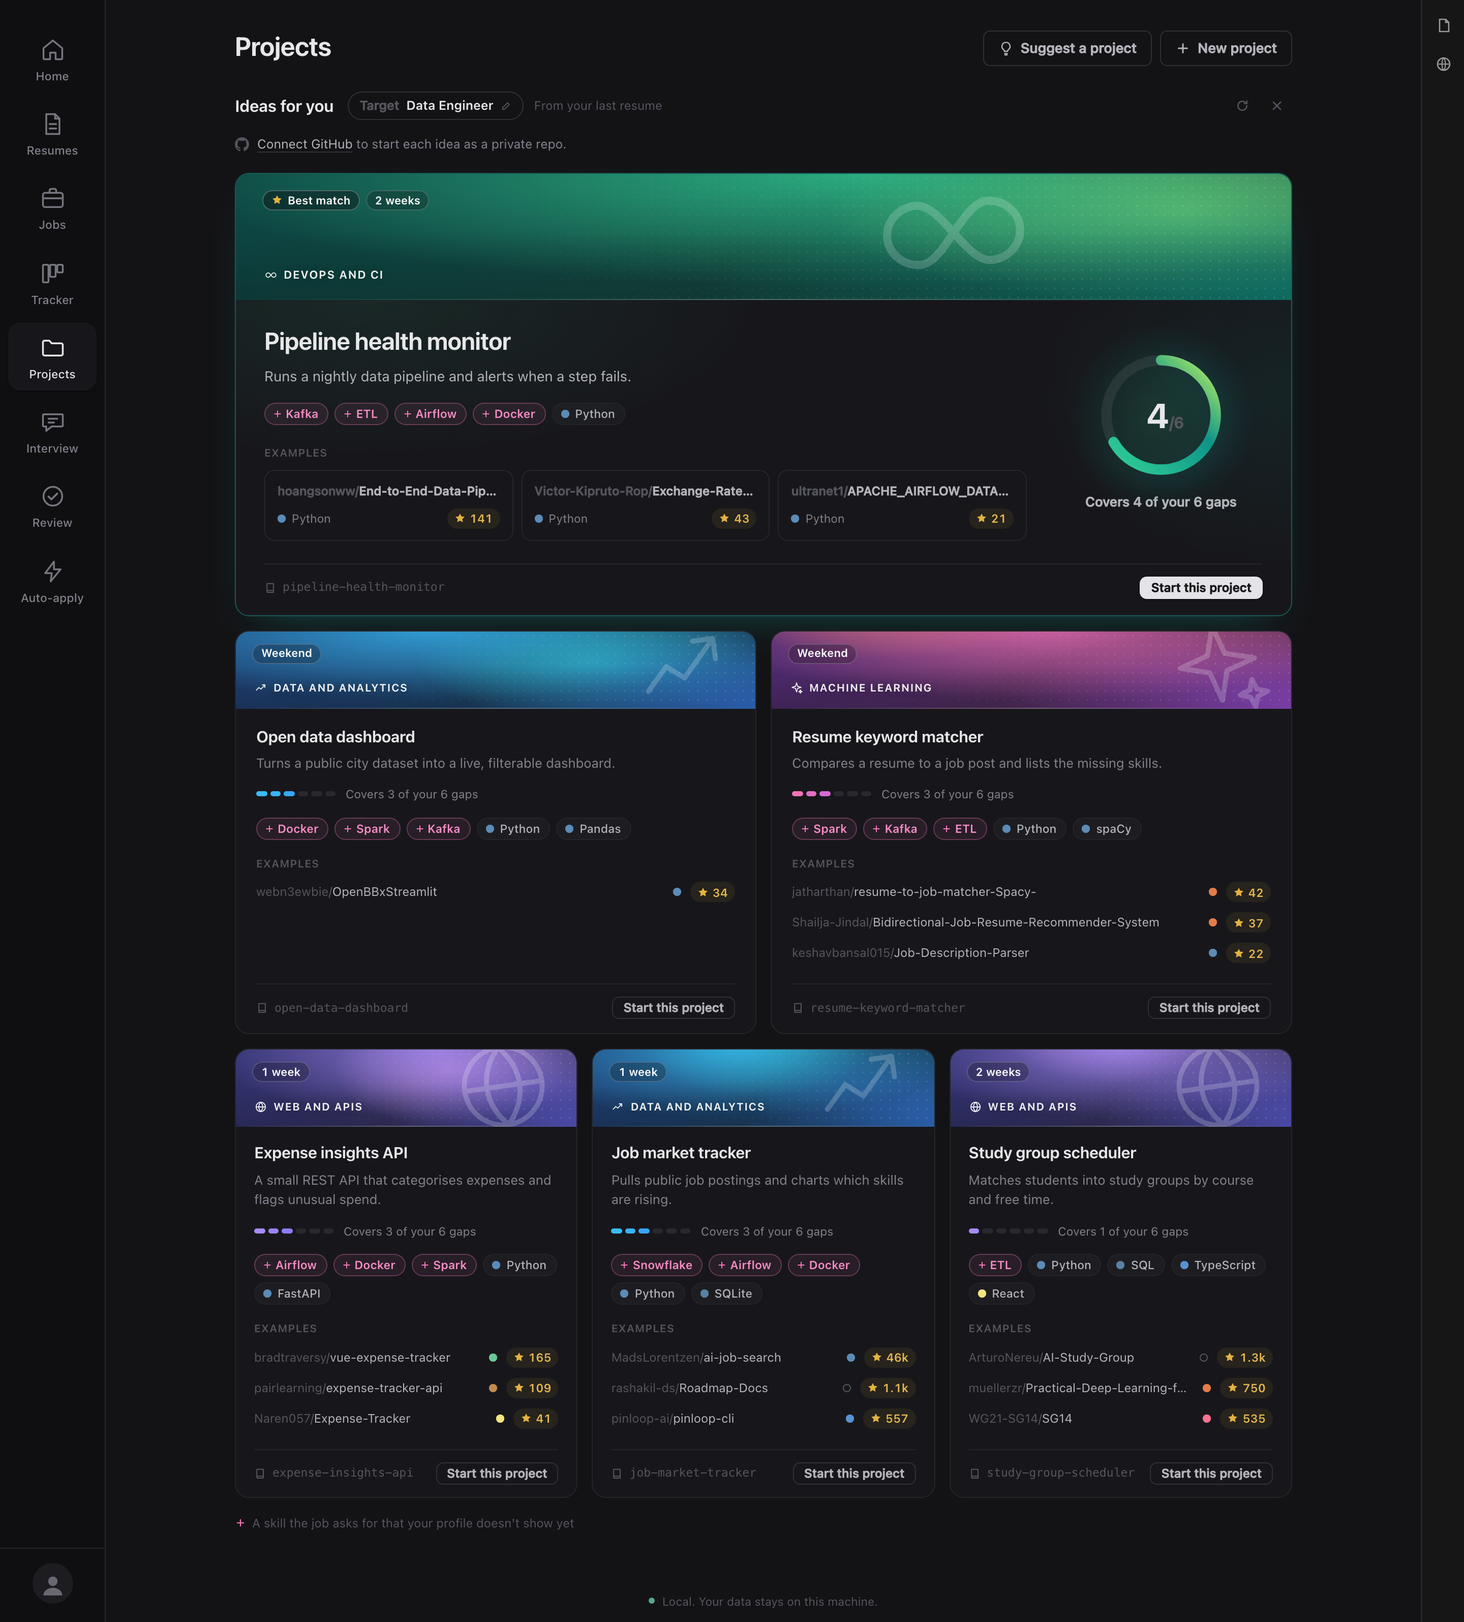
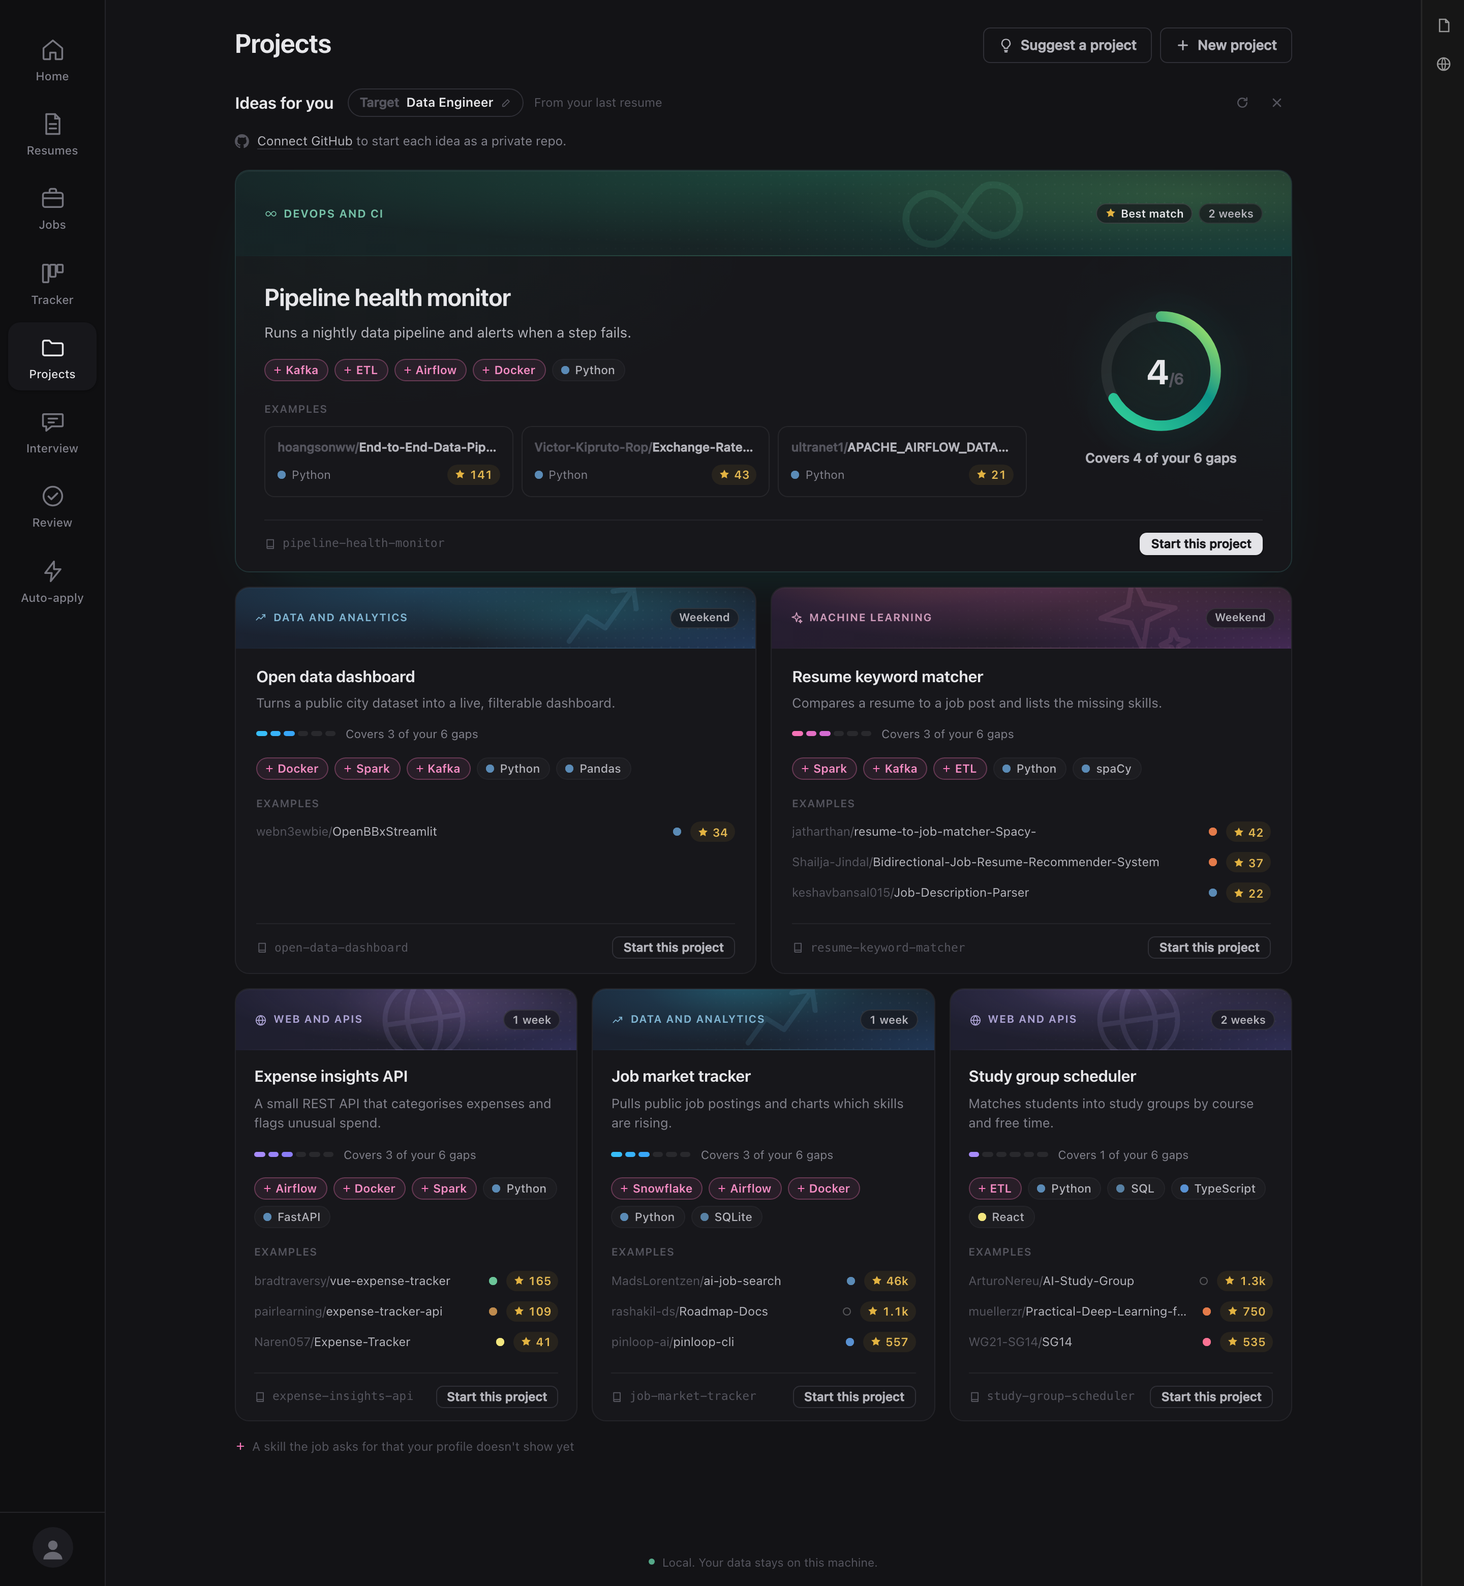
Projects ideas: tone the cover bands down to a faint tint, self-heal stale example caches
The owner found the painted category bands too saturated for the near-black app: they
drew the eye before the idea titles. The band is now a faint tint over the card surface
at about a third of the old strength (dark stops c1 72->20%, c2 78->22%, c3 58->14%,
base wash now over the surface; light c1 85->16%, c2 100->18%, c3 70->12%), with the
dot texture, glyph and hero glow reduced to match, the label in the hue and neutral
pills. Small bands 76->60px, hero 124->84px. Chips, dots, stars, meters, ring and
layout are unchanged.

Ideas cached before example repos carried a language drew hollow rings on every repo.
A cache hit with such examples now refetches them (at most 4 ideas a pass without a
token, passes a minute apart, inside GitHub's 10 searches a minute) and reuses the rest.

diff --git a/ui/static/styles.css b/ui/static/styles.css
@@ -3382,51 +3382,53 @@ body.cv-dragging * { cursor: grabbing !important; }
 .proj-idea:not(.is-skel):hover, .proj-idea:not(.is-skel):focus-within {
   border-color: color-mix(in srgb, var(--hue) 26%, var(--border));
   transform: translateY(-2px);
-  box-shadow: inset 0 1px 0 color-mix(in srgb, var(--ink) 3.5%, transparent), 0 18px 40px -26px color-mix(in srgb, var(--c2) 60%, transparent);
+  box-shadow: inset 0 1px 0 color-mix(in srgb, var(--ink) 3.5%, transparent), 0 18px 40px -26px color-mix(in srgb, var(--c2) 22%, transparent);
 }
 
-/* The cover band: three soft glows in the category's hues, a fine dot texture, one large faint
-   glyph, the category label, and the size (plus Best match on the hero) as glass pills. */
+/* The cover band (2026-10-13, toned down to about a third: the owner found the painted bands too
+   loud for the near-black app). Now a faint tint OVER the card's own surface, so the band names the
+   category at a glance but the idea title is what the eye lands on. Three soft glows in the
+   category's hues, a barely-there dot texture, one faint glyph, the category label in the hue, and
+   the size (plus Best match on the hero) as neutral pills. Stops: c1 72->20%, c2 78->22%, c3 58->14%,
+   base wash c2 42%/c1 30% of #0b0b10 -> c2 10%/c1 7% over the surface. */
 .proj-idea-cover {
-  position: relative; height: 76px; flex: none; overflow: hidden; isolation: isolate;
+  position: relative; height: 60px; flex: none; overflow: hidden; isolation: isolate;
   background:
-    linear-gradient(180deg, transparent 45%, rgba(8, 8, 12, 0.22)),
-    radial-gradient(110% 150% at var(--mx, 10%) 0%, color-mix(in srgb, var(--c1) 72%, transparent) 0%, transparent 60%),
-    radial-gradient(90% 170% at 100% 100%, color-mix(in srgb, var(--c2) 78%, transparent) 0%, transparent 62%),
-    radial-gradient(55% 120% at var(--nx, 62%) var(--my, 10%), color-mix(in srgb, var(--c3) 58%, transparent) 0%, transparent 62%),
-    linear-gradient(135deg, color-mix(in srgb, var(--c2) 42%, #0b0b10), color-mix(in srgb, var(--c1) 30%, #0b0b10));
+    radial-gradient(110% 150% at var(--mx, 10%) 0%, color-mix(in srgb, var(--c1) 20%, transparent) 0%, transparent 60%),
+    radial-gradient(90% 170% at 100% 100%, color-mix(in srgb, var(--c2) 22%, transparent) 0%, transparent 62%),
+    radial-gradient(55% 120% at var(--nx, 62%) var(--my, 10%), color-mix(in srgb, var(--c3) 14%, transparent) 0%, transparent 62%),
+    linear-gradient(135deg, color-mix(in srgb, var(--c2) 10%, transparent), color-mix(in srgb, var(--c1) 7%, transparent));
 }
 .proj-idea-cover::before {
   content: ""; position: absolute; inset: 0; z-index: -1;
   background-image: radial-gradient(rgba(255, 255, 255, 0.22) 0.7px, transparent 1.1px);
   background-size: 9px 9px;
   -webkit-mask-image: linear-gradient(100deg, transparent 15%, #000 85%); mask-image: linear-gradient(100deg, transparent 15%, #000 85%);
-  opacity: 0.55;
+  opacity: 0.18;
 }
 .proj-idea-cover::after {
   content: ""; position: absolute; left: 0; right: 0; bottom: 0; height: 1px;
-  background: linear-gradient(90deg, transparent, rgba(255, 255, 255, 0.26), transparent);
+  background: linear-gradient(90deg, transparent, color-mix(in srgb, var(--hue) 22%, transparent), transparent);
 }
 .proj-idea-glyph {
-  position: absolute; right: 18px; top: -18px; width: 108px; height: 108px; z-index: -1;
-  color: #fff; opacity: 0.2; stroke-width: 1.1; transform: rotate(-8deg);
+  position: absolute; right: 96px; top: -24px; width: 108px; height: 108px; z-index: -1;
+  color: var(--hue); opacity: 0.1; stroke-width: 1.1; transform: rotate(-8deg);
   transition: transform 420ms var(--ease), opacity 420ms var(--ease);
 }
-.proj-idea:hover .proj-idea-glyph { transform: rotate(-4deg) scale(1.04); opacity: 0.25; }
+.proj-idea:hover .proj-idea-glyph { transform: rotate(-4deg) scale(1.04); opacity: 0.14; }
 .proj-idea-cat {
-  position: absolute; left: 18px; bottom: 12px; display: inline-flex; align-items: center; gap: 6px;
+  position: absolute; left: 18px; top: 50%; transform: translateY(-50%); display: inline-flex; align-items: center; gap: 6px;
   font-size: 10.5px; font-weight: 650; letter-spacing: 0.07em; text-transform: uppercase; white-space: nowrap;
-  color: rgba(255, 255, 255, 0.92); text-shadow: 0 1px 8px rgba(0, 0, 0, 0.25);
+  color: color-mix(in srgb, var(--hue) 62%, var(--muted));
 }
 .proj-idea-cat svg { width: 13px; height: 13px; stroke-width: 1.7; }
-.proj-idea-tags { position: absolute; left: 16px; top: 12px; display: flex; gap: 6px; }
+.proj-idea-tags { position: absolute; right: 16px; top: 50%; transform: translateY(-50%); display: flex; gap: 6px; }
 .proj-idea-size, .proj-hero-tag {
   display: inline-flex; align-items: center; gap: 5px; height: 20px; padding: 0 8px;
-  font-size: 11px; font-weight: 600; color: #fff; font-variant-numeric: tabular-nums; white-space: nowrap;
-  background: rgba(10, 10, 14, 0.28); border: 1px solid rgba(255, 255, 255, 0.18); border-radius: var(--r-pill);
-  -webkit-backdrop-filter: blur(8px); backdrop-filter: blur(8px);
+  font-size: 11px; font-weight: 600; color: var(--ink-2); font-variant-numeric: tabular-nums; white-space: nowrap;
+  background: color-mix(in srgb, var(--surface) 70%, transparent); border: 1px solid color-mix(in srgb, var(--ink) 10%, transparent); border-radius: var(--r-pill);
 }
-.proj-hero-tag { background: rgba(10, 10, 14, 0.42); border-color: rgba(255, 255, 255, 0.26); }
+.proj-hero-tag { color: var(--ink); border-color: color-mix(in srgb, var(--ink) 14%, transparent); }
 .proj-hero-tag svg { color: var(--gold); }
 
 /* The body stays neutral. */
@@ -3507,19 +3509,19 @@ body.cv-dragging * { cursor: grabbing !important; }
 
 /* The hero: a taller band, the content and the fit ring side by side, a glow in the band's hue. */
 .proj-idea.is-hero {
-  border-color: color-mix(in srgb, var(--c2) 30%, var(--border));
-  box-shadow: inset 0 1px 0 color-mix(in srgb, var(--ink) 6%, transparent), 0 24px 60px -34px color-mix(in srgb, var(--c2) 70%, transparent);
+  border-color: color-mix(in srgb, var(--c2) 14%, var(--border));
+  box-shadow: inset 0 1px 0 color-mix(in srgb, var(--ink) 6%, transparent), 0 24px 60px -34px color-mix(in srgb, var(--c2) 26%, transparent);
 }
-.proj-idea.is-hero:hover, .proj-idea.is-hero:focus-within { transform: none; border-color: color-mix(in srgb, var(--c2) 48%, var(--border)); }
-.proj-idea.is-hero .proj-idea-cover { height: 124px; }
-.proj-idea.is-hero .proj-idea-glyph { width: 168px; height: 168px; right: 248px; top: -26px; opacity: 0.18; }
-.proj-idea.is-hero .proj-idea-cat { left: 28px; bottom: 16px; font-size: 11px; }
-.proj-idea.is-hero .proj-idea-tags { left: 26px; top: 16px; }
+.proj-idea.is-hero:hover, .proj-idea.is-hero:focus-within { transform: none; border-color: color-mix(in srgb, var(--c2) 24%, var(--border)); }
+.proj-idea.is-hero .proj-idea-cover { height: 84px; }
+.proj-idea.is-hero .proj-idea-glyph { width: 150px; height: 150px; right: 248px; top: -32px; opacity: 0.09; }
+.proj-idea.is-hero .proj-idea-cat { left: 28px; font-size: 11px; }
+.proj-idea.is-hero .proj-idea-tags { right: 28px; }
 .proj-idea.is-hero .proj-idea-body {
   display: grid; grid-template-columns: minmax(0, 1fr) 200px; column-gap: 32px; padding: 22px 28px 16px;
   background:
-    radial-gradient(560px 220px at 12% 0%, color-mix(in srgb, var(--c1) 9%, transparent), transparent 70%),
-    radial-gradient(360px 240px at 100% 30%, color-mix(in srgb, var(--c2) 10%, transparent), transparent 70%);
+    radial-gradient(560px 220px at 12% 0%, color-mix(in srgb, var(--c1) 3.5%, transparent), transparent 70%),
+    radial-gradient(360px 240px at 100% 30%, color-mix(in srgb, var(--c2) 4%, transparent), transparent 70%);
 }
 .proj-hero-main { min-width: 0; }
 .proj-idea.is-hero .proj-idea-t { font-size: 24px; font-weight: 650; letter-spacing: -0.02em; white-space: normal; }
@@ -3542,11 +3544,11 @@ body.cv-dragging * { cursor: grabbing !important; }
 .proj-hero-fit { position: relative; display: flex; flex-direction: column; align-items: center; justify-content: center; gap: 12px; text-align: center; }
 .proj-hero-fit::before {
   content: ""; position: absolute; z-index: -1; width: 180px; height: 180px; top: 50%; left: 50%; transform: translate(-50%, -58%); border-radius: 50%;
-  background: radial-gradient(circle, color-mix(in srgb, var(--c1) 16%, transparent), color-mix(in srgb, var(--c2) 6%, transparent) 55%, transparent 72%);
+  background: radial-gradient(circle, color-mix(in srgb, var(--c1) 7%, transparent), color-mix(in srgb, var(--c2) 2.5%, transparent) 55%, transparent 72%);
 }
 .proj-hero-fit-t { margin: 0; font-size: 13px; font-weight: 550; color: var(--ink-2); white-space: nowrap; }
 .proj-ring { position: relative; width: 128px; height: 128px; }
-.proj-ring svg { width: 100%; height: 100%; display: block; filter: drop-shadow(0 6px 16px color-mix(in srgb, var(--c2) 30%, transparent)); }
+.proj-ring svg { width: 100%; height: 100%; display: block; filter: drop-shadow(0 6px 16px color-mix(in srgb, var(--c2) 12%, transparent)); }
 .proj-ring circle { fill: none; stroke-width: 8; }
 .proj-ring-track { stroke: color-mix(in srgb, var(--ink) 8%, transparent); }
 .proj-ring-arc { stroke-linecap: round; animation: proj-ring-in 900ms var(--ease) both 120ms; }
@@ -3556,27 +3558,30 @@ body.cv-dragging * { cursor: grabbing !important; }
 .proj-ring-n b { font-size: 34px; font-weight: 700; letter-spacing: -0.03em; line-height: 1; }
 .proj-ring-n small { font-size: 15px; font-weight: 550; color: var(--faint); }
 
-/* Light mode: the band keeps its colour on a pale base; glyph and pills adjust. */
+/* Light mode: the same restraint, a pale tint of the hue over the white surface (stops c1 85->16%,
+   c2 100->18%, c3 70->12%, base c2 70%/c1 60% of white -> c2 8%/c1 5% over the surface; a tint on white
+   reads stronger than the same alpha on near-black, so light sits lower), the glyph and
+   label in the deeper hue, neutral pills. */
 :root[data-theme="light"] .proj-idea-cover {
   background:
-    linear-gradient(180deg, transparent 50%, rgba(8, 8, 12, 0.1)),
-    radial-gradient(110% 150% at var(--mx, 10%) 0%, color-mix(in srgb, var(--c1) 85%, transparent) 0%, transparent 62%),
-    radial-gradient(90% 170% at 100% 100%, var(--c2) 0%, transparent 64%),
-    radial-gradient(55% 120% at var(--nx, 62%) var(--my, 10%), color-mix(in srgb, var(--c3) 70%, transparent) 0%, transparent 62%),
-    linear-gradient(135deg, color-mix(in srgb, var(--c2) 70%, #fff), color-mix(in srgb, var(--c1) 60%, #fff));
+    radial-gradient(110% 150% at var(--mx, 10%) 0%, color-mix(in srgb, var(--c1) 16%, transparent) 0%, transparent 62%),
+    radial-gradient(90% 170% at 100% 100%, color-mix(in srgb, var(--c2) 18%, transparent) 0%, transparent 64%),
+    radial-gradient(55% 120% at var(--nx, 62%) var(--my, 10%), color-mix(in srgb, var(--c3) 12%, transparent) 0%, transparent 62%),
+    linear-gradient(135deg, color-mix(in srgb, var(--c2) 8%, transparent), color-mix(in srgb, var(--c1) 5%, transparent));
 }
-:root[data-theme="light"] .proj-idea-cover::before { background-image: radial-gradient(rgba(255, 255, 255, 0.7) 0.7px, transparent 1.1px); }
-:root[data-theme="light"] .proj-idea-glyph { opacity: 0.4; }
-:root[data-theme="light"] .proj-idea-size, :root[data-theme="light"] .proj-hero-tag { background: rgba(255, 255, 255, 0.4); border-color: rgba(255, 255, 255, 0.65); color: #18181b; }
+:root[data-theme="light"] .proj-idea-cover::before { background-image: radial-gradient(color-mix(in srgb, var(--c2) 60%, transparent) 0.7px, transparent 1.1px); opacity: 0.16; }
+:root[data-theme="light"] .proj-idea-glyph { color: var(--c2); opacity: 0.12; }
+:root[data-theme="light"] .proj-idea.is-hero .proj-idea-glyph { opacity: 0.1; }
+:root[data-theme="light"] .proj-idea-size, :root[data-theme="light"] .proj-hero-tag { background: color-mix(in srgb, var(--surface) 75%, transparent); }
 :root[data-theme="light"] .proj-hero-tag svg { color: #a16207; }
-:root[data-theme="light"] .proj-idea-cat { color: #fff; text-shadow: 0 1px 2px rgba(0, 0, 0, 0.22), 0 1px 10px rgba(0, 0, 0, 0.18); }
+:root[data-theme="light"] .proj-idea-cat { color: color-mix(in srgb, var(--c2) 70%, #3f3f46); }
 :root[data-theme="light"] .proj-idea.is-hero .proj-ex { background: color-mix(in srgb, var(--surface) 85%, transparent); }
 
 /* Loading: placeholders in the cards' shape, cover band included, the first one as the hero. */
 .proj-idea.is-skel { min-height: 250px; }
 .proj-idea.is-skel.is-hero { min-height: 300px; }
-.proj-idea.is-skel b { display: block; flex: none; height: 76px; margin-bottom: 18px; background: color-mix(in srgb, var(--ink) 5%, transparent); animation: proj-pulse 1.4s ease-in-out infinite; }
-.proj-idea.is-skel.is-hero b { height: 124px; }
+.proj-idea.is-skel b { display: block; flex: none; height: 60px; margin-bottom: 18px; background: color-mix(in srgb, var(--ink) 5%, transparent); animation: proj-pulse 1.4s ease-in-out infinite; }
+.proj-idea.is-skel.is-hero b { height: 84px; }
 .proj-idea.is-skel i { display: block; height: 10px; margin: 0 20px 10px; border-radius: 5px; background: color-mix(in srgb, var(--ink) 6%, transparent); animation: proj-pulse 1.4s ease-in-out infinite; }
 .proj-idea.is-skel i:nth-child(2) { width: 46%; height: 13px; }
 .proj-idea.is-skel i:nth-child(3) { width: 72%; }
@@ -3593,7 +3598,7 @@ body.cv-dragging * { cursor: grabbing !important; }
 @media (max-width: 960px) {
   .proj-ideas-grid > .proj-idea:not(.is-hero) { grid-column: span 3; }
   .proj-ideas-grid > .proj-idea:not(.is-hero):last-of-type:nth-of-type(even) { grid-column: 1 / -1; }
-  .proj-idea.is-hero .proj-idea-glyph { right: 24px; }
+  .proj-idea.is-hero .proj-idea-glyph { right: 180px; }
 }
 @media (max-width: 760px) {
   .proj-ideas-hd { flex-wrap: wrap; }

diff --git a/tests/test_projects.py b/tests/test_projects.py
@@ -192,6 +192,48 @@ def test_ideas_one_click_from_last_tailored_job(client, monkeypatch):
     assert again["cached"] is True and again["ideas"] == d["ideas"] and len(gh.calls) == n
 
 
+def test_ideas_cache_heals_examples_without_language(client, monkeypatch):
+    """Ideas cached before ``language`` was passed through drew a hollow ring on every repo. A hit
+    with such examples is stale: the examples are refetched (at most 4 ideas a pass without a
+    token, passes a minute apart, inside GitHub's 10 searches a minute), the rest are reused."""
+    A, c = client
+    import ui.github_publish as G
+    gh = FakeGitHub(search=SEARCH_FIXTURE)
+    monkeypatch.setattr(G, "FETCH", gh)
+    old_ex = [{"full_name": "old/repo", "url": "https://github.com/old/repo", "stars": 5, "description": ""}]
+    fresh_ex = [{"full_name": "keep/me", "url": "https://github.com/keep/me", "stars": 9, "description": "",
+                 "language": "Go"}]
+    ideas = [{"title": f"Idea {n}", "pitch": "p", "skills": ["Python"], "gaps": [], "size": "Weekend",
+              "repo": f"idea-{n}", "search": f"idea {n}", "examples": [dict(e) for e in old_ex]} for n in range(6)]
+    ideas.append({"title": "Fine", "pitch": "p", "skills": ["Go"], "gaps": [], "size": "Weekend",
+                  "repo": "fine", "search": "fine", "examples": fresh_ex})
+    ideas.append({"title": "None found", "pitch": "p", "skills": ["Go"], "gaps": [], "size": "Weekend",
+                  "repo": "none", "search": "none", "examples": []})
+    A._ideas_cache_put("data engineer", {"role": "Data Engineer", "ideas": ideas, "at": 1.0})
+
+    d = c.post("/api/projects/ideas", json={"role": "Data Engineer"}).get_json()
+    assert d["cached"] is True
+    searches = gh.of("GET", "/search/repositories")
+    assert 1 <= len(searches) <= 8            # 4 ideas at most, each at most 2 searches
+    healed = [i for i in d["ideas"] if i["examples"] and i["examples"][0]["full_name"] == "real/one"]
+    assert len(healed) == 4 and all(i["examples"][0]["language"] == "Python" for i in healed)
+    assert next(i for i in d["ideas"] if i["title"] == "Fine")["examples"] == fresh_ex   # reused
+    assert next(i for i in d["ideas"] if i["title"] == "None found")["examples"] == []
+    # the healed set is saved, so reopening does not search again for those ideas
+    assert sum(1 for i in A._ideas_cache()["data engineer"]["ideas"] if A._stale_examples(i)) == 2
+
+    # within the minute, a reopen spends no searches; after it, the last two heal
+    n = len(gh.calls)
+    c.post("/api/projects/ideas", json={"role": "Data Engineer"})
+    assert len(gh.calls) == n
+    monkeypatch.setattr(A, "_HEAL_GAP", 0)
+    d = c.post("/api/projects/ideas", json={"role": "Data Engineer"}).get_json()
+    assert not any(A._stale_examples(i) for i in d["ideas"])
+    n = len(gh.calls)
+    c.post("/api/projects/ideas", json={"role": "Data Engineer"})
+    assert len(gh.calls) == n                 # nothing stale, nothing fetched
+
+
 def test_ideas_fall_back_to_profile_then_typed_role(client, monkeypatch):
     A, c = client
     import ui.github_publish as G

diff --git a/ui/app.py b/ui/app.py
@@ -5221,6 +5221,40 @@ def _add_examples(ideas: list[dict]) -> bool:
     return any(found)
 
 
+# Ideas cached before example repos carried a ``language`` show a hollow ring on every repo. Such
+# a set is stale: refetch the examples for the ideas that need it and keep the rest. GitHub allows
+# 10 unauthenticated searches a minute and one idea can cost two (the short-phrase retry), so
+# without a token a pass heals at most 4 ideas, and passes are at least a minute apart; the rest
+# heal on a later open. A search that comes back empty keeps the old examples rather than none.
+_HEAL_GAP = 60
+_HEAL_MAX_ANON = 4
+
+
+def _stale_examples(idea: dict) -> bool:
+    return any(isinstance(e, dict) and "language" not in e for e in idea.get("examples") or [])
+
+
+def _heal_examples(key: str, hit: dict) -> list[dict]:
+    ideas = hit.get("ideas") or []
+    stale = [i for i in ideas if isinstance(i, dict) and _stale_examples(i)]
+    if not stale or time.time() - float(hit.get("healed_at") or 0) < _HEAL_GAP:
+        return ideas
+    from concurrent.futures import ThreadPoolExecutor
+    from ui import github_publish as G
+    token = _cred("GITHUB_TOKEN")
+    batch = stale if token else stale[:_HEAL_MAX_ANON]
+    try:
+        with ThreadPoolExecutor(max_workers=min(6, len(batch))) as ex:
+            found = list(ex.map(lambda i: G.search_examples(i.get("search") or i.get("title") or "", token), batch))
+    except Exception:
+        found = [[] for _ in batch]
+    for idea, ex_list in zip(batch, found):
+        if ex_list:
+            idea["examples"] = ex_list
+    _ideas_cache_put(key, {**hit, "ideas": ideas, "healed_at": time.time()})
+    return ideas
+
+
 @app.post("/api/projects/ideas")
 @_guard
 def projects_ideas():
@@ -5234,7 +5268,7 @@ def projects_ideas():
     if not b.get("refresh"):
         hit = _ideas_cache().get(key)
         if hit and hit.get("ideas"):
-            return jsonify({"role": role, "source": source, "ideas": hit["ideas"], "cached": True,
+            return jsonify({"role": role, "source": source, "ideas": _heal_examples(key, hit), "cached": True,
                             "github": gh})
     saved = _memory().load("default") or {}
     profile = saved.get("profile") or saved.get("essentials") or {}
